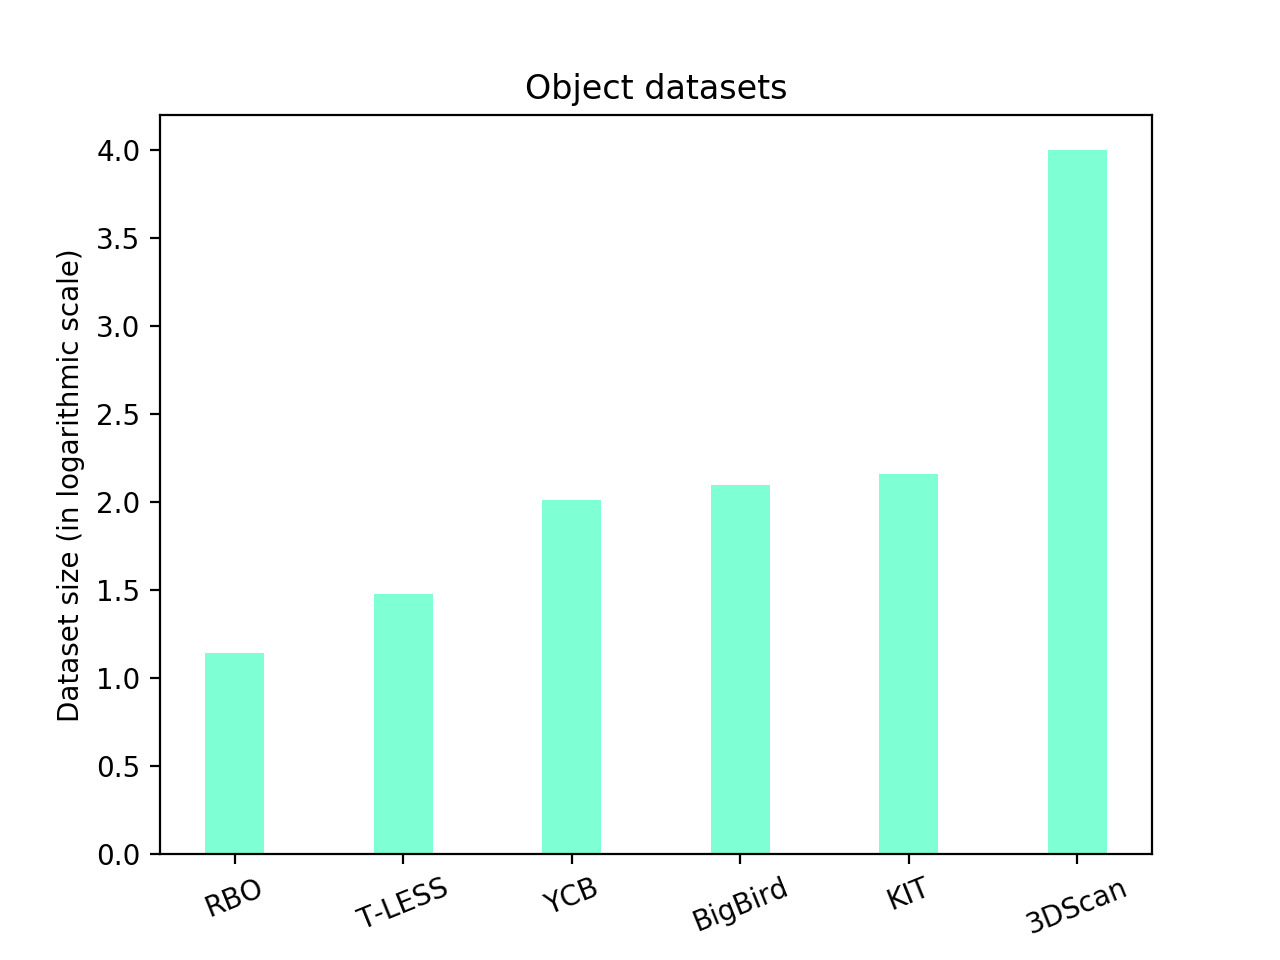
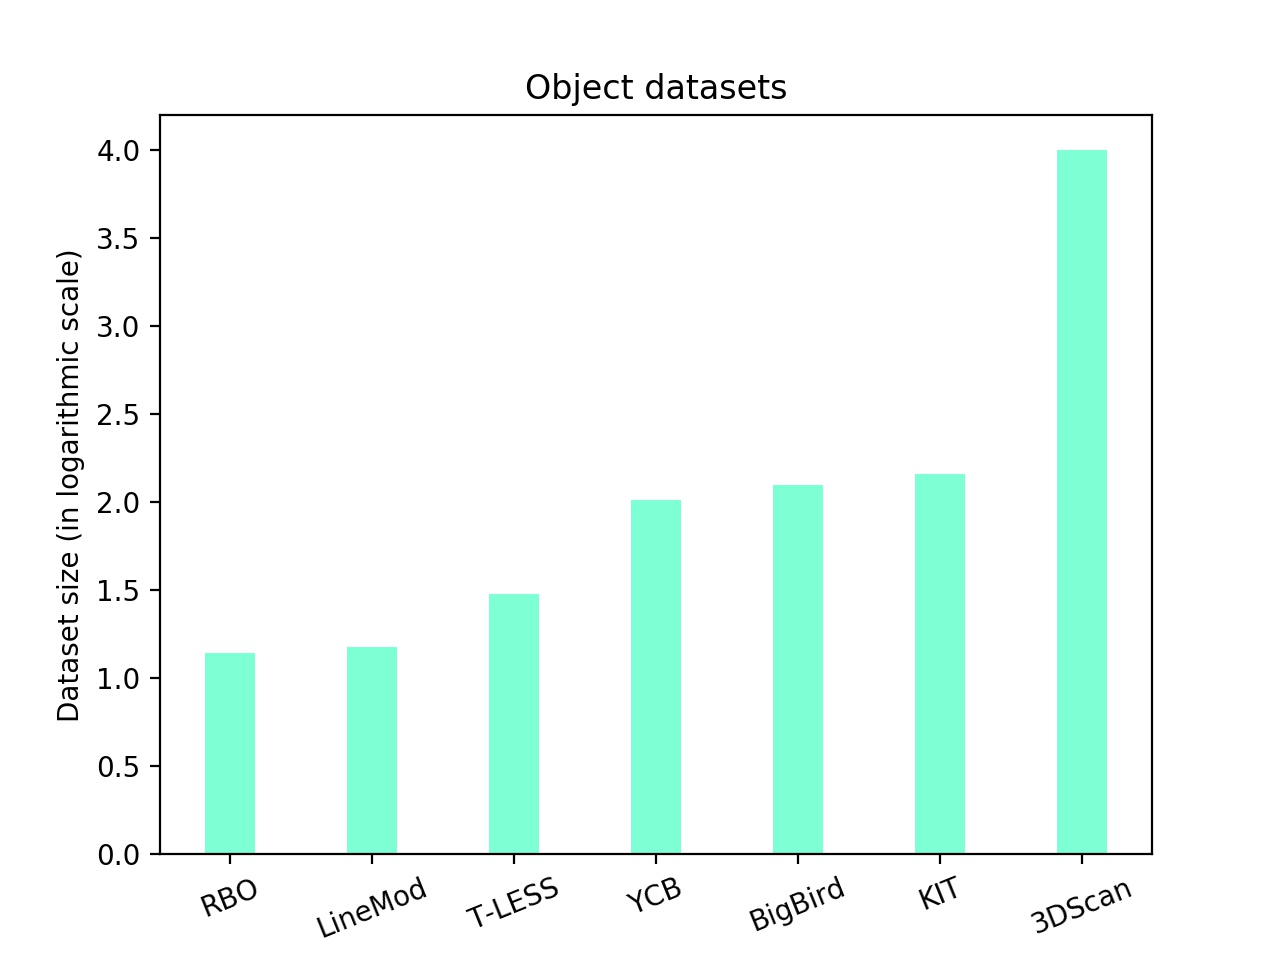
uipdate

diff --git a/python/plot_syn_dataset_evolution.py b/python/plot_syn_dataset_evolution.py
@@ -22,6 +22,7 @@ dataset_dict = {'BigBird': 125,
                 'KIT': 145,
                 '3DScan': 10000,
                 'T-LESS': 30,
+                'LineMod': 15,
                 'RBO': 14}
 
 dataset_dict = OrderedDict(sorted(dataset_dict.items(), key=lambda x: x[1]))
